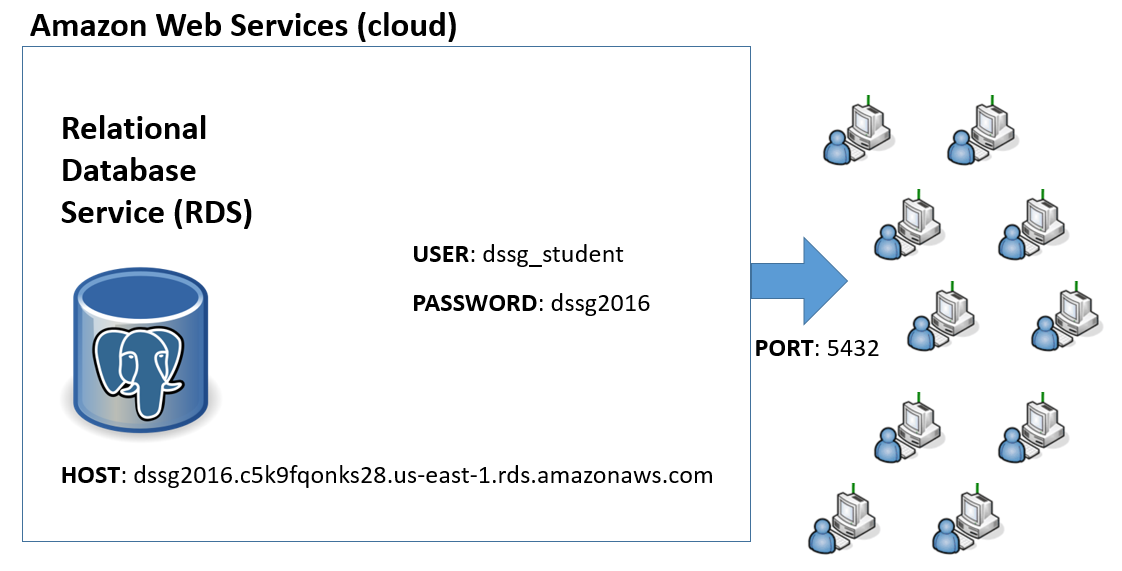
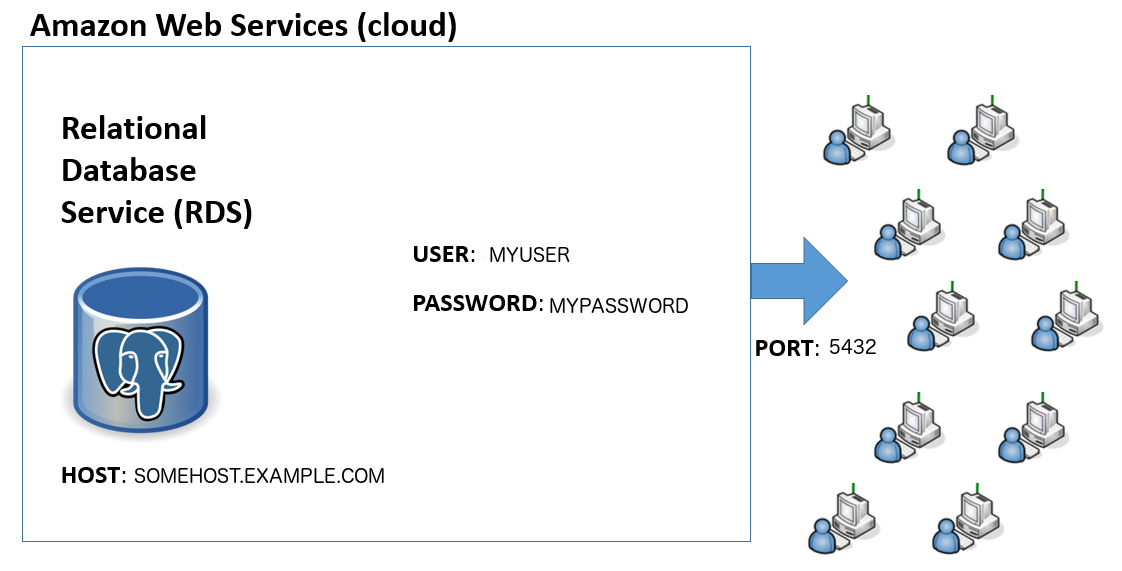
Fix html and remove creds from dbDiagram

diff --git a/_layouts/base.html b/_layouts/base.html
@@ -1,6 +1,4 @@
----
----
-{% comment %}
+{% comment %}
   If previewing locally, site.root is set in _config_dev.yml.
   If site.root is not set, assume we're viewing on the web.
 {% endcomment %}

diff --git a/assets/css/lesson.scss b/assets/css/lesson.scss
@@ -135,3 +135,7 @@ span.fold-unfold {
   margin-left: 1em;
   opacity: 0.5;
 }
+
+.navbar-default {
+  margin-top: 20px;
+}
